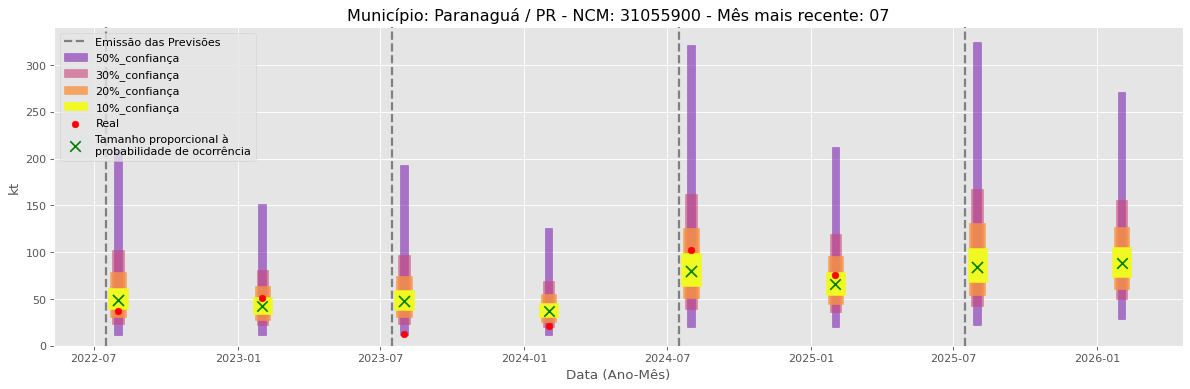
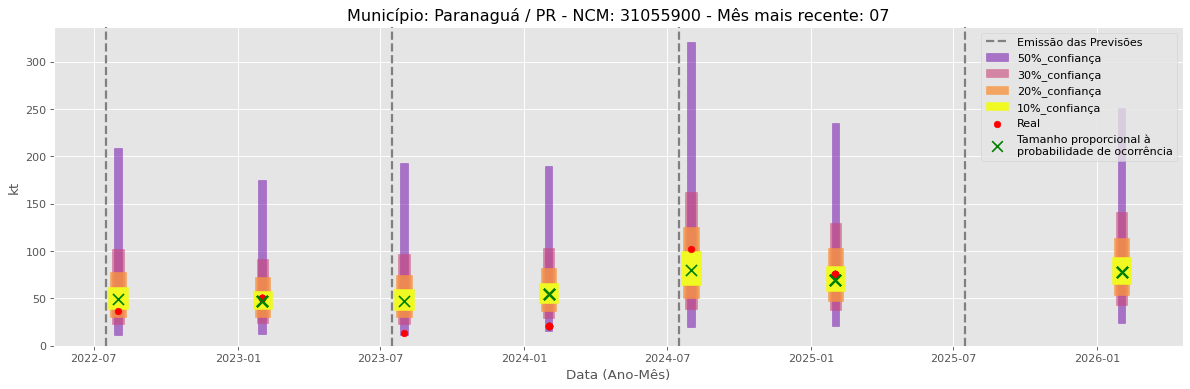
Atualização automática em lote

diff --git a/README.md b/README.md
@@ -48,7 +48,7 @@ Previsão Influenciada:
 Fator Influenciador: Quantidade em Comex
 - Unidade Federativa: PR
 - Grupo de Produto (SH2): Combustíveis minerais, óleos minerais e produtos da sua destilação; matérias betuminosas; ceras minerais-27 
-- Mês: 9
+- Mês: 12
 - Unidade: kt_lag24
 
 
@@ -66,11 +66,11 @@ Previsão Influenciada:
 - Mês previsto: 02
 
 
-Fator Influenciador: Ocorrência de Comex
-- Unidade Federativa: GO
-- Grupo de Produto (SH2): Sementes e frutos oleaginosos; grãos, sementes e frutos diversos; plantas industriais ou medicinais; palhas e forragens-12 
-- Mês: 3
-- Unidade: oc_lag1
+Fator Influenciador: Quantidade em Comex
+- Unidade Federativa: TO
+- Grupo de Produto (SH2): Adubos (fertilizantes)-31 
+- Mês: 9
+- Unidade: kt_mun
 
 
 
